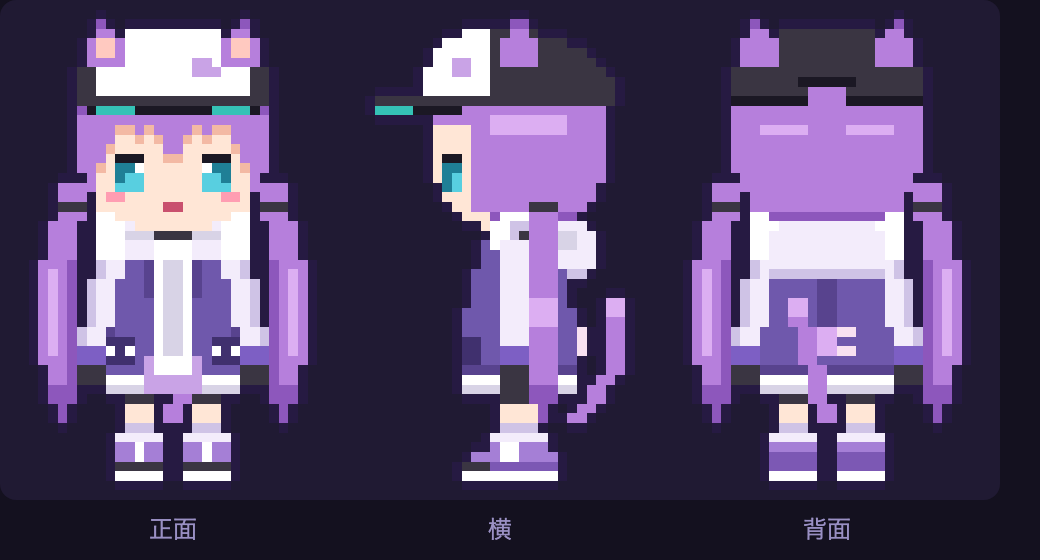
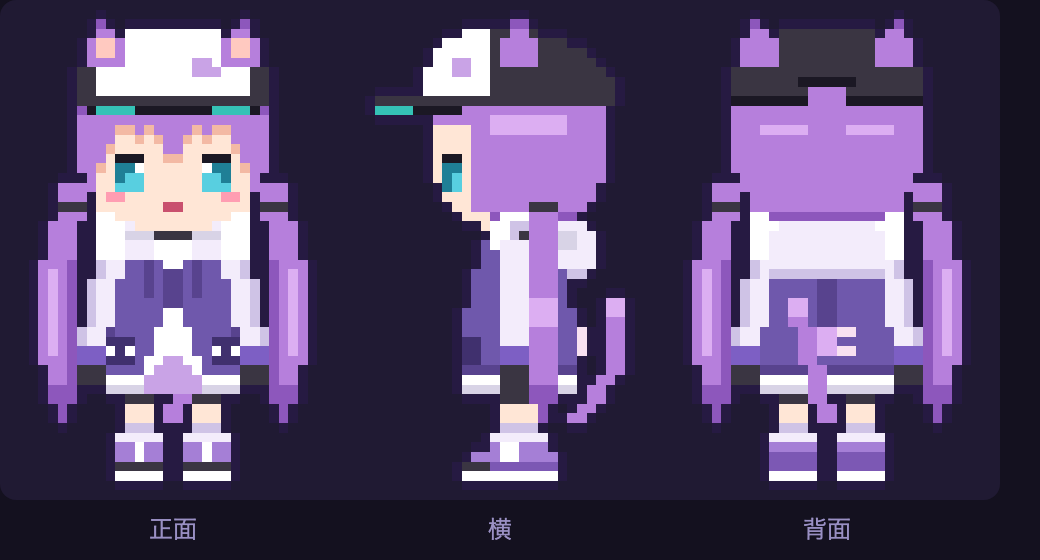
ジャケット正面: 胸でジッパーを閉じ、襟元と裾だけ開く
Claude-Session: https://claude.ai/code/session_011HoqDHgmM7SEYGM4k87Uy9

Changed region(s): [[0.1231, 0.4554, 0.2154, 0.6679]]

diff --git a/design.js b/design.js
@@ -66,8 +66,10 @@ function mirror(p) { parts.push({name:p.name.replace('左','右'), n:p.n, depth:
 { const p = part('ジャケット', 3);
   prof(p, 9, 24, z => ({hw: z <= 17 ? 7 : z <= 21 ? 6 : 5, hd: z <= 17 ? 6 : z <= 21 ? 5 : 4,
                         c: z === 9 ? P.W2 : z === 10 ? P.W1 : P.J1}));
-  box(p.front, 14, 17, 13, 24, P.W1); box(p.front, 15, 16, 13, 22, P.W2);               // 前立てとインナーの白
-  box(p.front, 13, 18, 9, 12, P.L1); box(p.front, 14, 17, 11, 12, P.W1);                // 裾から見えるインナー
+  box(p.front, 13, 18, 24, 24, P.W1); box(p.front, 14, 17, 23, 23, P.W1); box(p.front, 15, 16, 22, 22, P.W1); // 襟元のV（白シャツ）
+  box(p.front, 15, 16, 18, 21, P.J2);                                                   // 胸はジッパーで閉じる（細い線だけ）
+  box(p.front, 15, 16, 16, 17, P.W1); box(p.front, 14, 17, 13, 15, P.W1);               // 胸の下から逆Vに開く
+  box(p.front, 13, 18, 9, 12, P.L1); sym(p.front, 13, 12, P.W1); sym(p.front, 13, 11, P.W1); sym(p.front, 14, 12, P.W1); // 裾のインナー
   symbox(p.front, 11, 13, 23, 24, P.V1); symbox(p.front, 13, 13, 19, 22, P.J2);         // 襟（フードの縁）・前端の影
   symbox(p.front, 9, 11, 12, 14, P.J3); sym(p.front, 9, 13, P.W1); sym(p.front, 11, 13, P.W1); // 猫顔ポケット
   symbox(p.front, 9, 9, 15, 20, P.J2);
